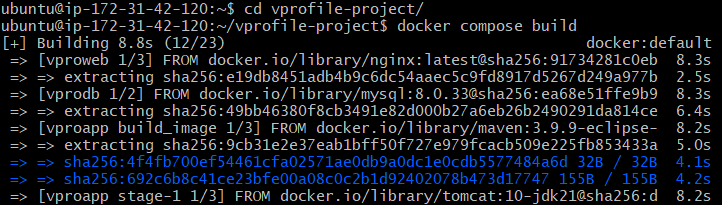
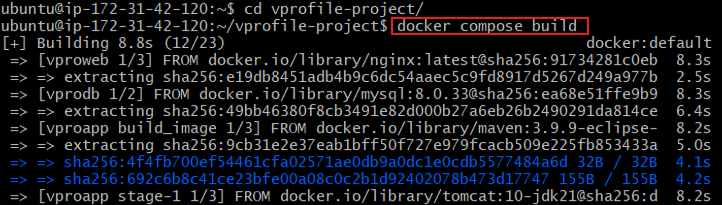
updated readme

diff --git a/README.md b/README.md
@@ -1,0 +1,84 @@
+# Java Application Dockerized
+## Overview
+This project is a Java-based application, forked from my mentor's GitHub repository. The application comprises five distinct services and follows a structured deployment process. The application artifact is first built using Maven and subsequently deployed to a Tomcat server for execution.
+
+For containerization, the same approach is followed using a multi-stage Docker build. In the first stage, the application artifact is compiled using Maven within a dedicated build environment. In the final stage, the compiled artifact is copied into a lightweight Tomcat-based runtime environment, ensuring an optimized and efficient deployment.
+
+This multi-stage build process enhances security, reduces the final image size, and improves overall performance by separating the build dependencies from the runtime environment.
+
+### Services Included
+The application consists of the following services:
+- Tomcat – Java servlet container
+- Nginx – Web server and reverse proxy
+- RabbitMQ – Message broker
+- Memcached – Caching system
+- MySQL – Relational database
+
+### Prerequisites
+
+To run this project, you need:
+
+- A server or machine with Docker installed 
+- A text editor (e.g., VS Code, Vim, Nano) to write and modify Dockerfiles.
+- Docker hub account
+
+### Getting Started
+1. Sign-up/sign-in to docker hub [here](https://hub.docker.com/) 
+
+2. Create repositories for the images that will be built.
+The three repositories are: vprofileapp, vprofiledb, vprofileweb. 
+![](./img/1.hub.png)
+![](./img/2.hub.png)
+3. If using AWS cloud for your server, then;
+    - setup your infrastructure, you can use this terraform [link](https://github.com/Olasunkanmi-O/terraform-lab)
+    - install docker engine on the server → [Install Docker](https://docs.docker.com/engine/install/)
+    - add the user (ubuntu or ec2-user) to the docker group, log out and re-login to reload the user profile
+    ![Add ubuntu to docker group](./img/05.%20add-ubuntu-to-docker.png)
+    - create the folder structure as depicted in the Docker-files directory.
+    - using your preferred text editor, write the dockerfiles
+4. Write the Dockerfiles based on the needs of the application as described [here](./ContainerizationServiceList.txt)
+    - App Dockerfile: this is a multistage build process which include the build stage and the runtime stage
+    - DB Dockerfile: since the database is written in MYSQL, we use MySQL base and inject the schema into the image
+    - Web Dockerfile: remove the default conf file and replace with this new one that just sets reverse proxy for the application.
+    - Memcache and rabbitmq do not need different images as there are no configurations for them, so we will use the base images
+5. Write the Docker compose file using the information in the application.properties file specifying the image names, container names, volumes and ports as required
+    - vproapp: volume will be matched to /usr/local/tomcat/webapps in line with the default directory of tomcat application
+    - vprodb: opened on port 3306, the volume will be on /var/lib/mysql and an environment set for the root password for MySQL
+    - keep port 11211 open for memcache and 5672 for rabbitMQ, equally maintain default username and password for rabbitMQ 
+6. Back to the terminal, navigate to where you have the Docker-files and the compose file - ensure they are together, run the command `docker compose build`
+![](/img/06.docker-compose.png) 
+7. When the build is completed, check that the images are built using this command `docker images`
+![](/img/08.docker-images.png)
+8. After verifying the images are created, then we can run the containers using the compose file again via this command `docker compose up -d`
+![](/img/09.compose-up.png)
+9. Get the ip address of your server ( port 80 should be opened to allow HTTP), paste same on your browser and view the running application, below image shows the nginx has sent the request to tomcat server and you can access the app.
+![](./img/11.web-access.png)
+10. use username and password as vp_admin to access the app. 
+11. Once you login, that confirms the database connectivity
+![](./img/12.login-db.png)
+12. Initiate RabbitMQ 
+![](/img/13.initiate-rmq.png)
+![](/img/14.rmq-initiated.png)
+13. Click on All Users and click on any number to get below responses
+![](/img/15.memcache.png)
+![](/img/16.mem-confirmed.png)
+14. click on back and click the same user again and confirm that the new response is coming from the cached data 
+![](/img/17.data-in-cached.png)
+15. Now that we have confirmed the containers are running well, then we can push our images to docker hub using this command, `docker login` to login to docker hub and `docker push` followed by your account name/the image name
+![](/img/18.push-vproapp.png)
+![](/img/19.push-vprodb.png)
+![](/img/20.push-vproweb.png)
+
+### clean up
+1. navigate to the directory where you have the compose.yaml file, execute this command `docker compose down`
+![](/img/21.remove-container.png)
+2. Run `docker volume ls ` to see the list of volumes created, then use `docker volume rm` with the volume name to remove them
+![](/img/22.%20remove-volume.png)
+3. To remove any unused volume `docker volume prune`
+4. You can also use `docker system prune -a` for complete system cleanup, read the warning and be sure this is what you intend to do before proceeding.
+![](/img/23.total%20cleanup.png)
+
+
+
+
+
